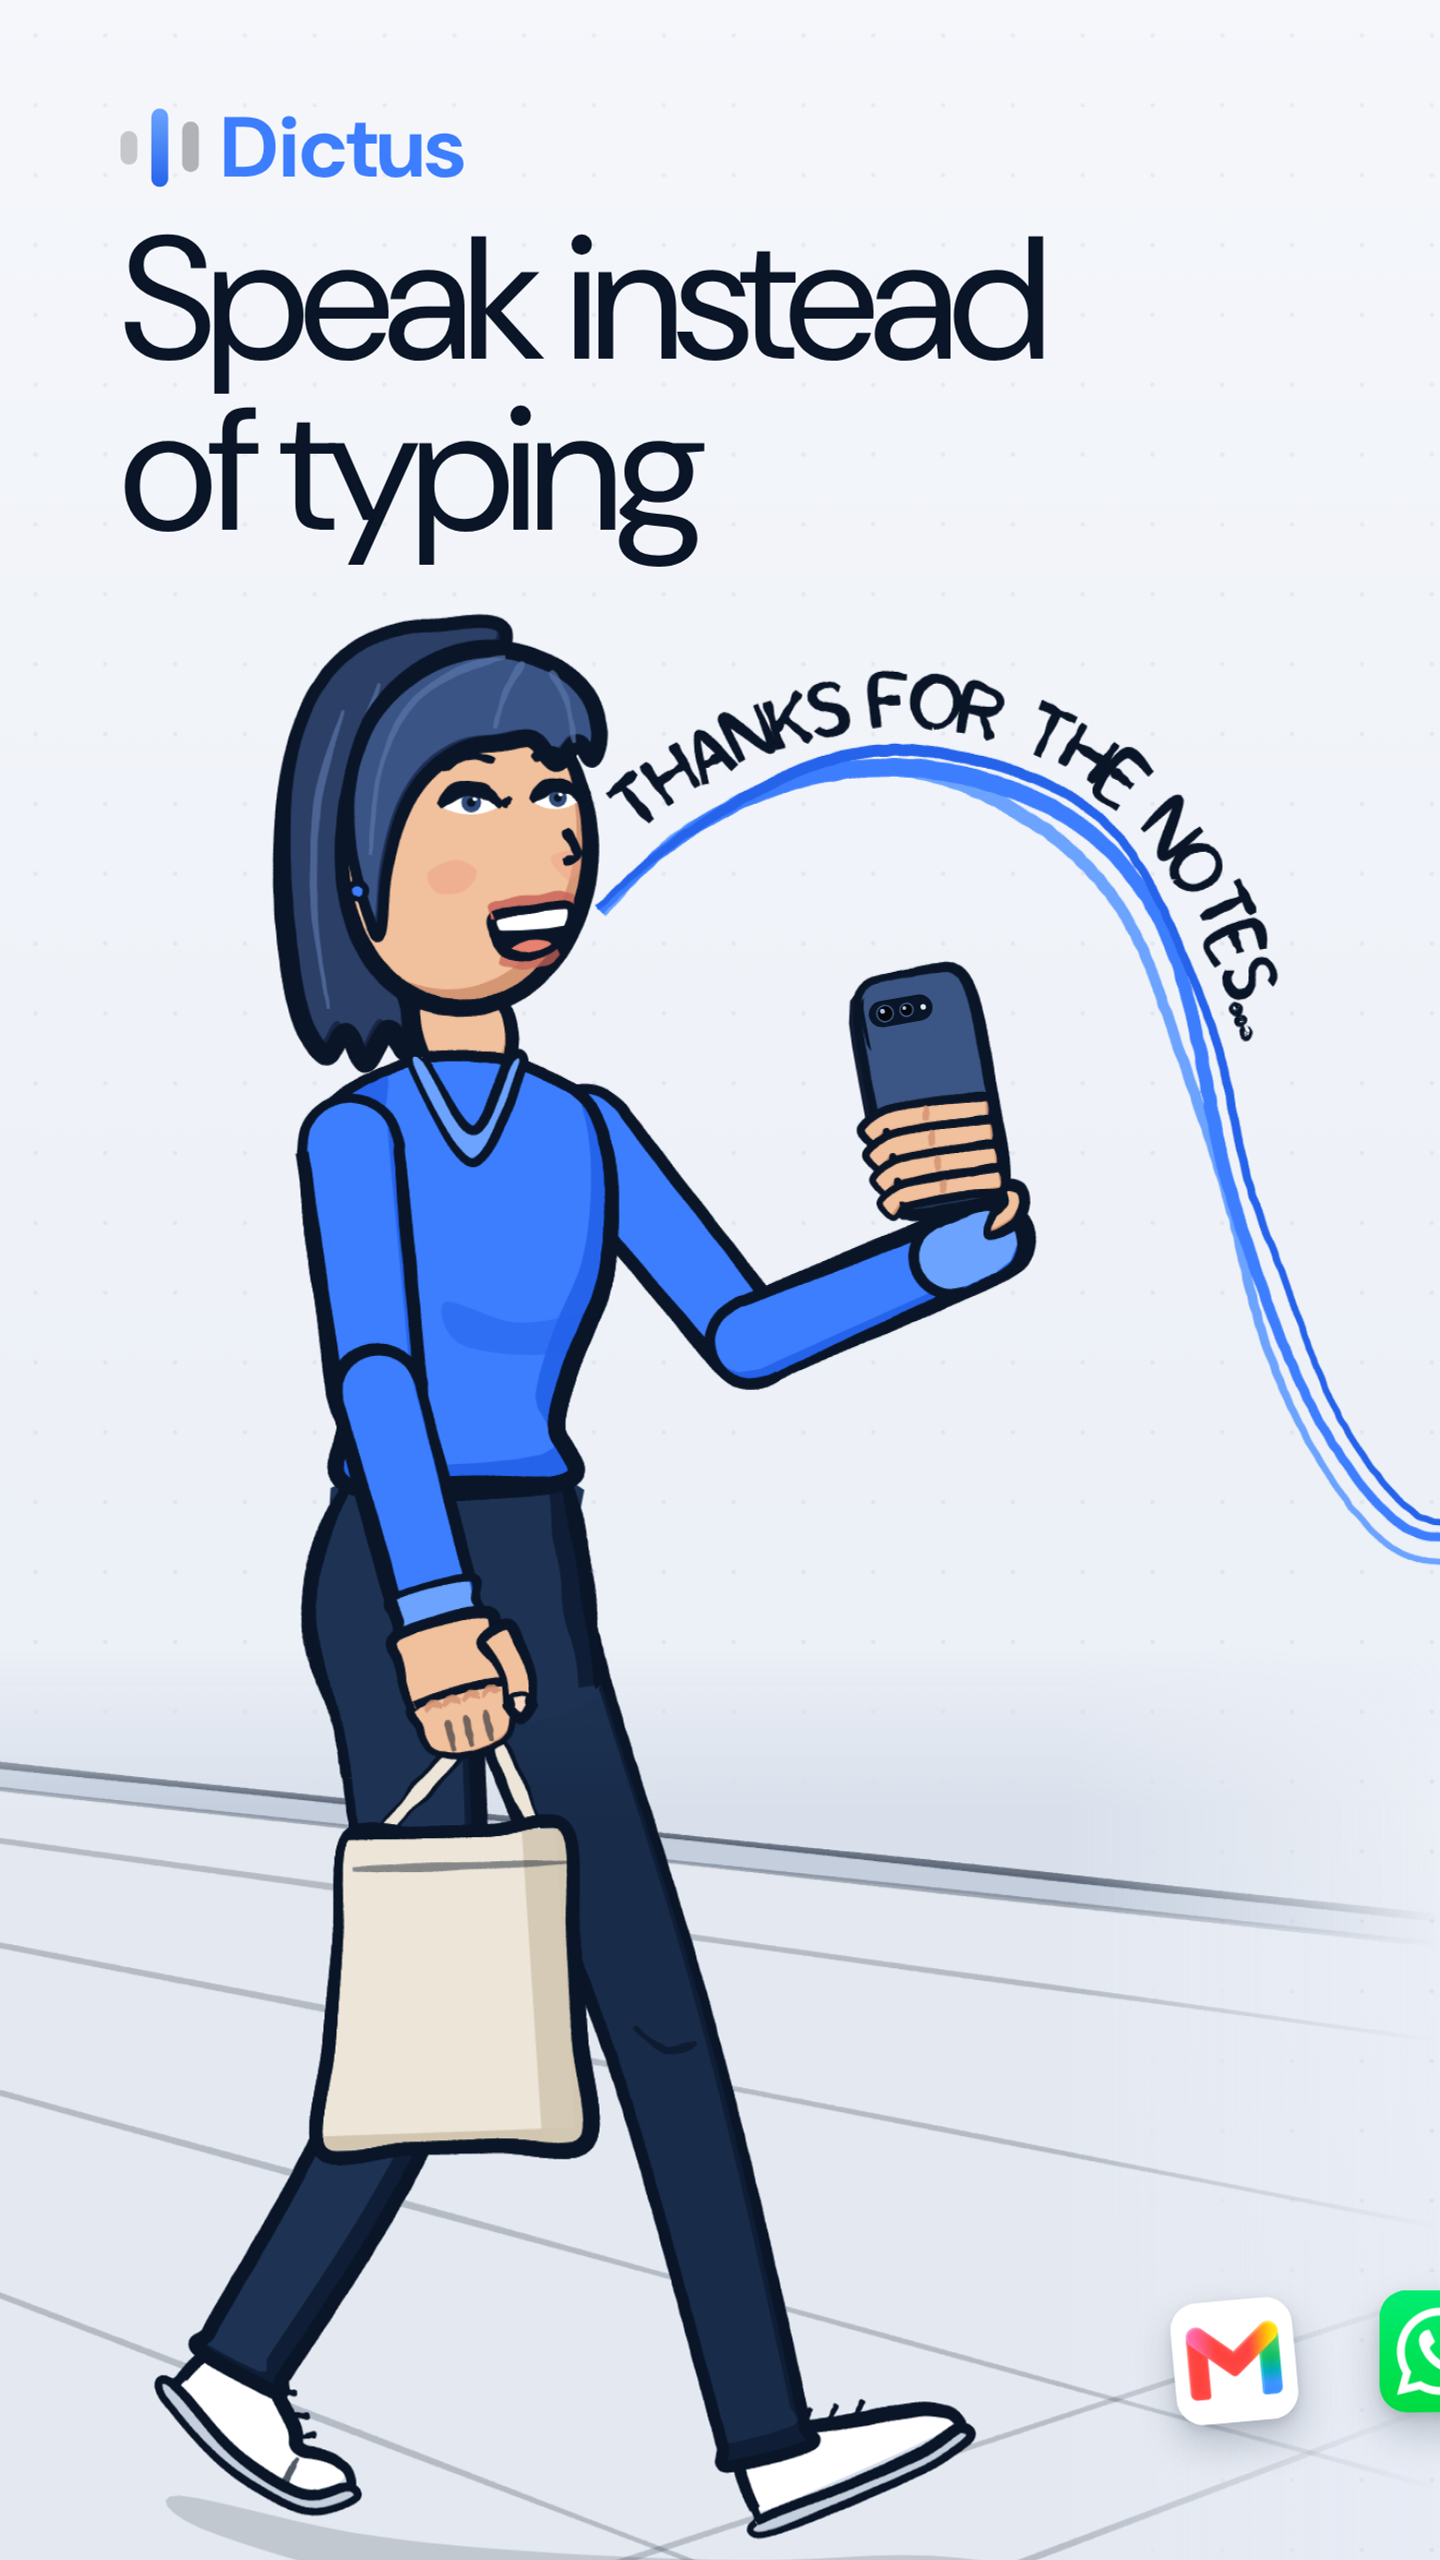
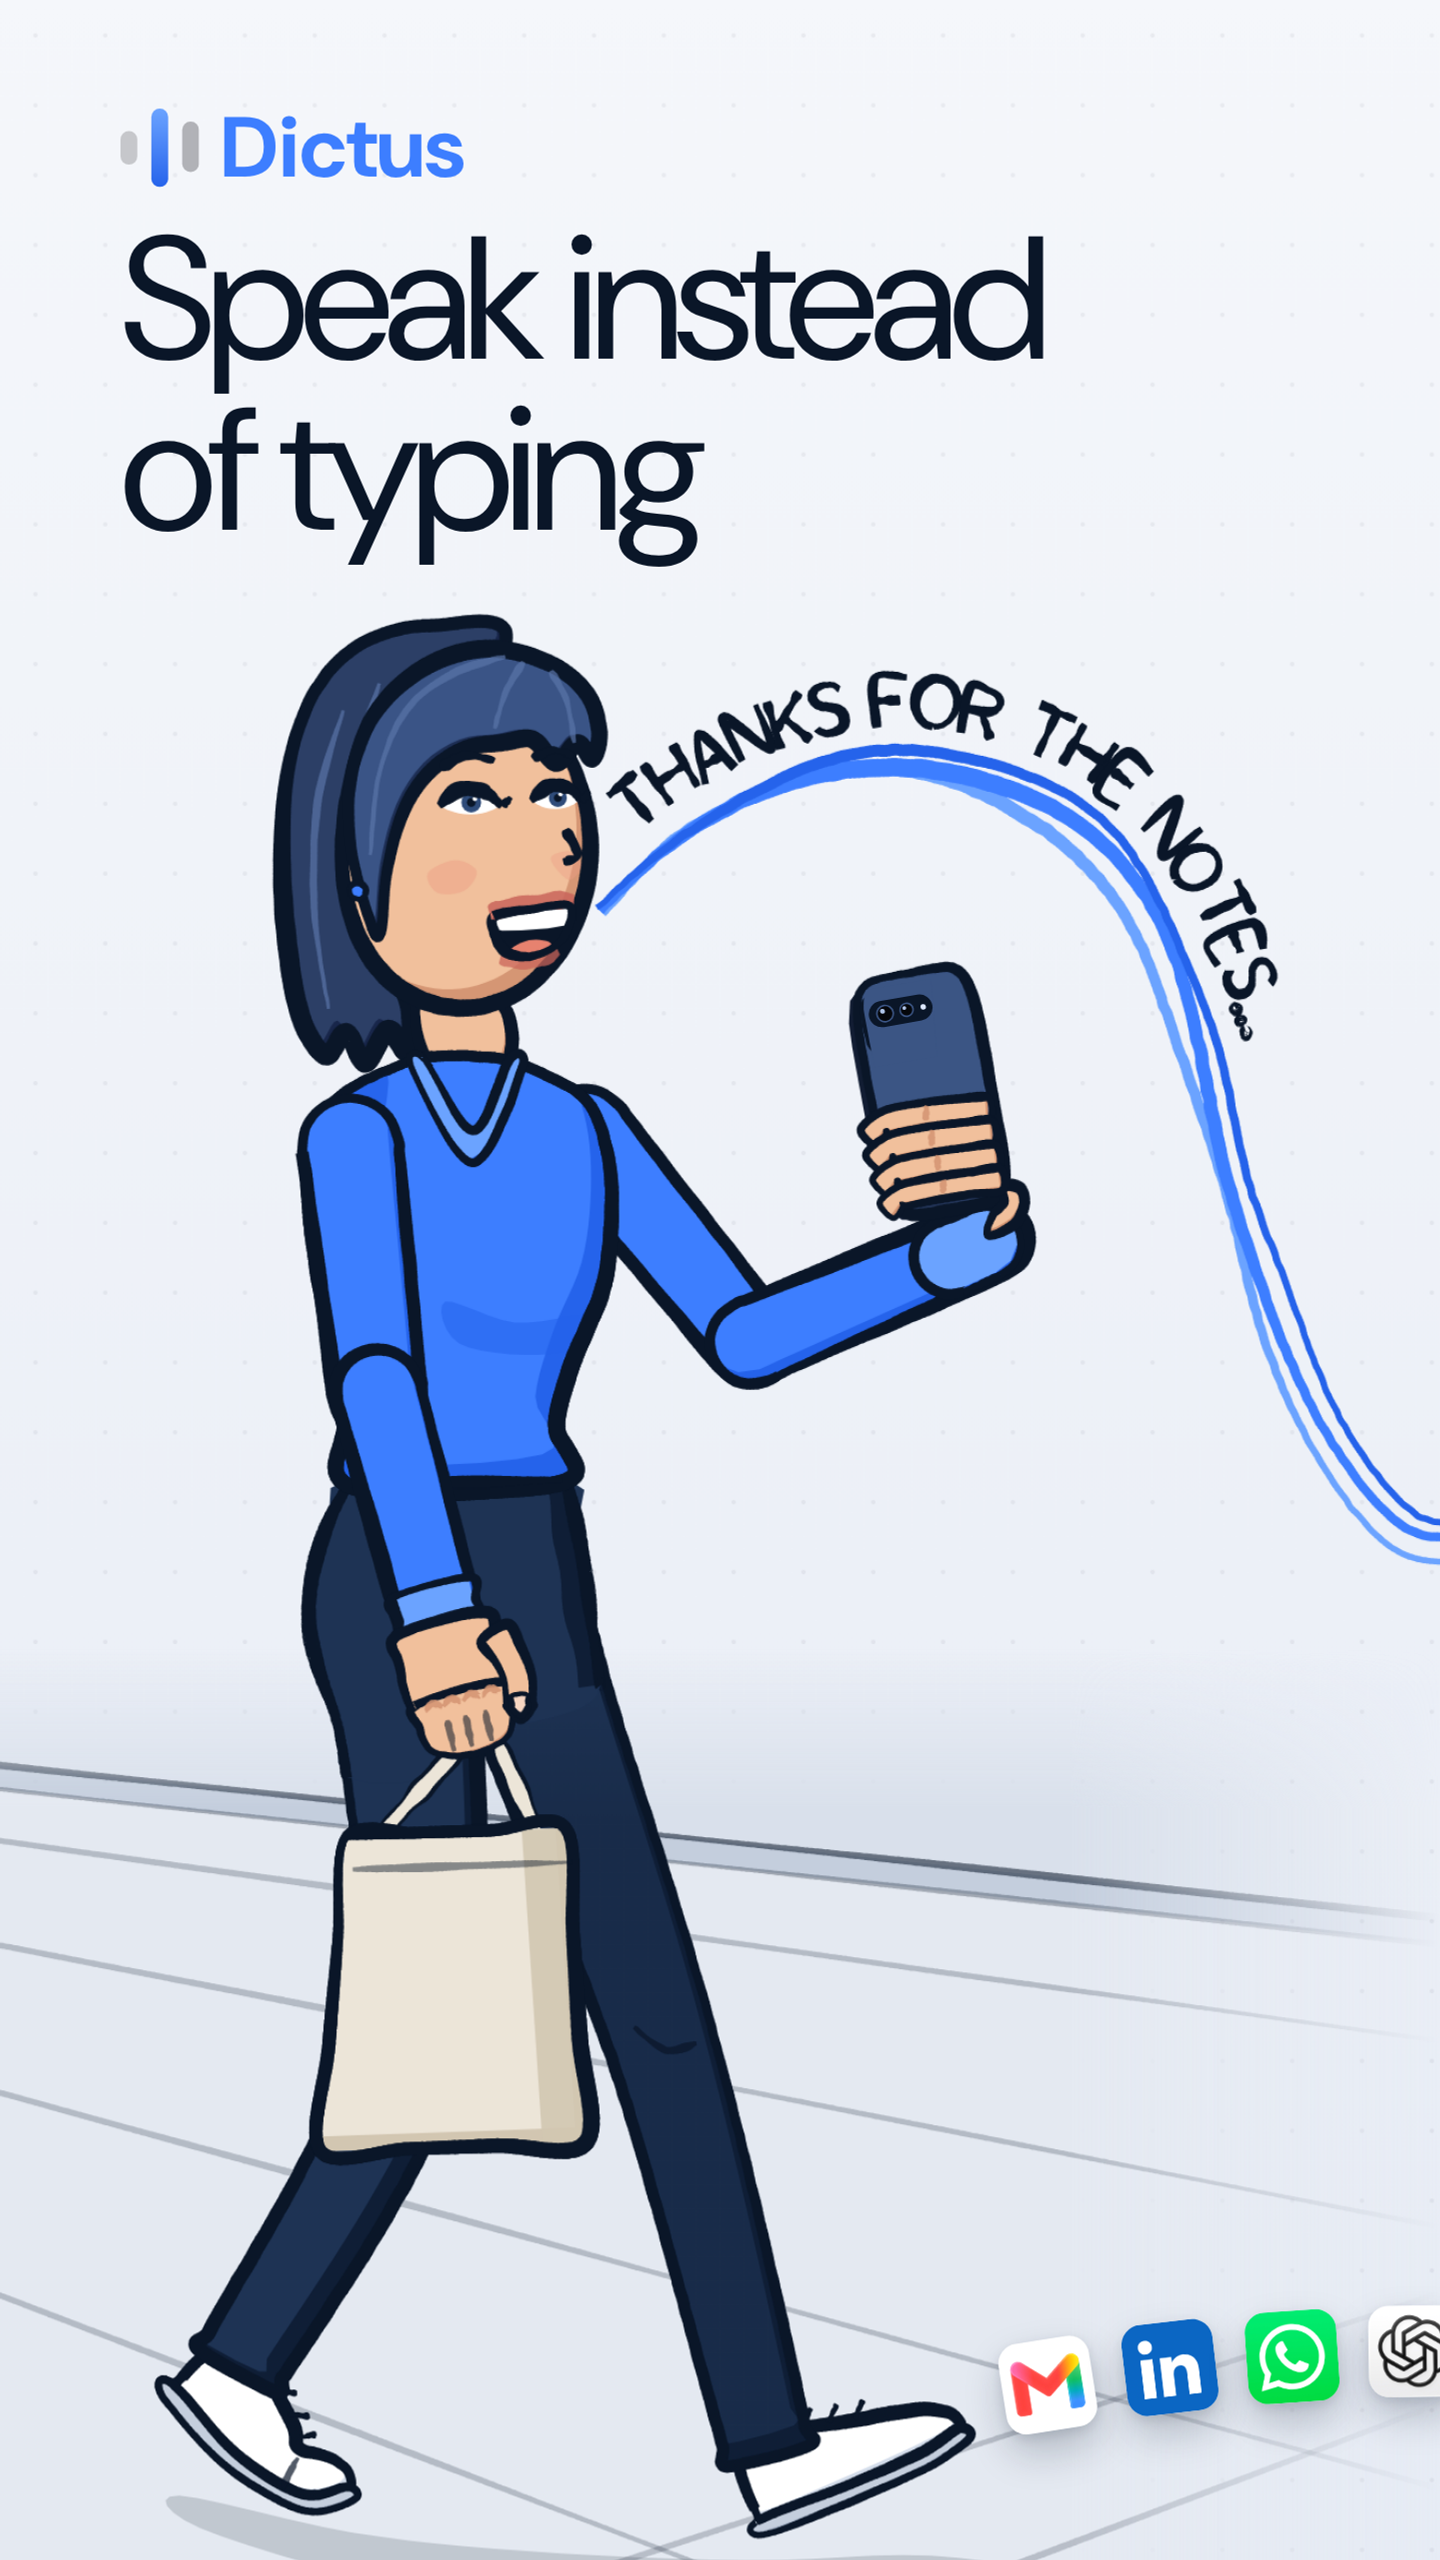
feat(play): fill the 16 slots of the iOS ribbon (refs #221)
Same count as the iOS set, with its apps that exist on Android plus
Perplexity, Le Chat and Signal. Reordered so no two dark or two blue
icons touch; the icons are smaller since they start past the shoes.

Changed region(s): [[0.6875, 0.875, 1.0, 0.9688]]

diff --git a/tools/play-listing/template.html b/tools/play-listing/template.html
@@ -237,25 +237,23 @@ function addKeyboards(list, i, labels) {
 
 /* A single cosine from the first panel's left edge to the second panel's right edge, icons turned to it. */
 function addRibbon() {
-  const X0 = -70, X1 = 2720, A = 96, Y0 = 2250, SIZE = 112, P = X1 - X0;
+  const X0 = -70, X1 = 2720, A = 96, Y0 = 2250, SIZE = 84, P = X1 - X0;
   const Y = (x) => Y0 + A * Math.cos(2 * Math.PI * (x - X0) / P);
   const dY = (x) => -A * (2 * Math.PI / P) * Math.sin(2 * Math.PI * (x - X0) / P);
   const GLYPHS = ['<path d="M5 6h14v9H10l-5 4z"/>', '<path d="M4 7h16v11H4zM4 7l8 6 8-6"/>', '<path d="M7 4h7l4 4v12H7zM14 4v4h4M10 12h5M10 15h5"/>',
     '<circle cx="12" cy="12" r="3.5"/><path d="M15.5 12v1.5a2.5 2.5 0 0 0 5 0V12a8.5 8.5 0 1 0-3.4 6.8"/>', '<path d="M4 12l16-7-6 15-3-6z"/>', '<path d="M5 19l1-4L16 5l3 3L9 18z"/>'];
   const COLOURS = [["#3D7EFF", "#fff"], ["#DCE8FF", "#2563EB"], ["#0A1628", "#fff"], ["#6BA3FF", "#fff"], ["#2563EB", "#fff"], ["#EEF3FF", "#3D7EFF"]];
-  /* In the iOS ribbon's order (screenshots.html, RIBBON_APPS_14), one per visible slot. */
-  const LOGOS = ["gmail", "whatsapp", "chatgpt", "messenger", "gemini", "notion", "slack", "instagram", "telegram"];
-  let slot = 0;
-  const count = 15, clearOfShoes = 960;
+  /* The 16 slots of the iOS ribbon (RIBBON15.fit), its apps that exist on Android, reordered so that
+     no two dark or two blue icons touch. They start past the shoes, so they are smaller than on iOS. */
+  const LOGOS = ["gmail", "linkedin", "whatsapp", "chatgpt", "messenger", "claude", "telegram", "gemini",
+    "perplexity", "notion", "lechat", "slack", "obsidian", "signal", "instagram", "discord"];
+  const count = LOGOS.length, clearOfShoes = 960, end = 2 * PANEL_W;
   for (let n = 0; n < count; n++) {
-    const x = n * 2 * PANEL_W / (count - 1);
-    if (x < clearOfShoes) continue;
-    const y = Y(x), rot = Math.atan2(dY(x), 1) * 180 / Math.PI;
+    const x = clearOfShoes + n * (end - clearOfShoes) / (count - 1), y = Y(x), rot = Math.atan2(dY(x), 1) * 180 / Math.PI;
     const [bg, fg] = COLOURS[n % COLOURS.length];
-    const logo = LOGOS[slot++];
     const d = el("ribbon-icon", RIBBON === "tiles"
       ? `<svg viewBox="0 0 24 24" fill="none" stroke="${fg}" stroke-width="1.8" stroke-linecap="round" stroke-linejoin="round">${GLYPHS[n % GLYPHS.length]}</svg>`
-      : `<img alt="" src=".icons/${logo}.png">`);
+      : `<img alt="" src=".icons/${LOGOS[n]}.png">`);
     Object.assign(d.style, { left: `${x - SIZE / 2}px`, top: `${y - SIZE / 2}px`, width: `${SIZE}px`, height: `${SIZE}px`, background: RIBBON === "tiles" ? bg : "none", transform: `rotate(${rot}deg)` });
     strip.appendChild(d);
   }
